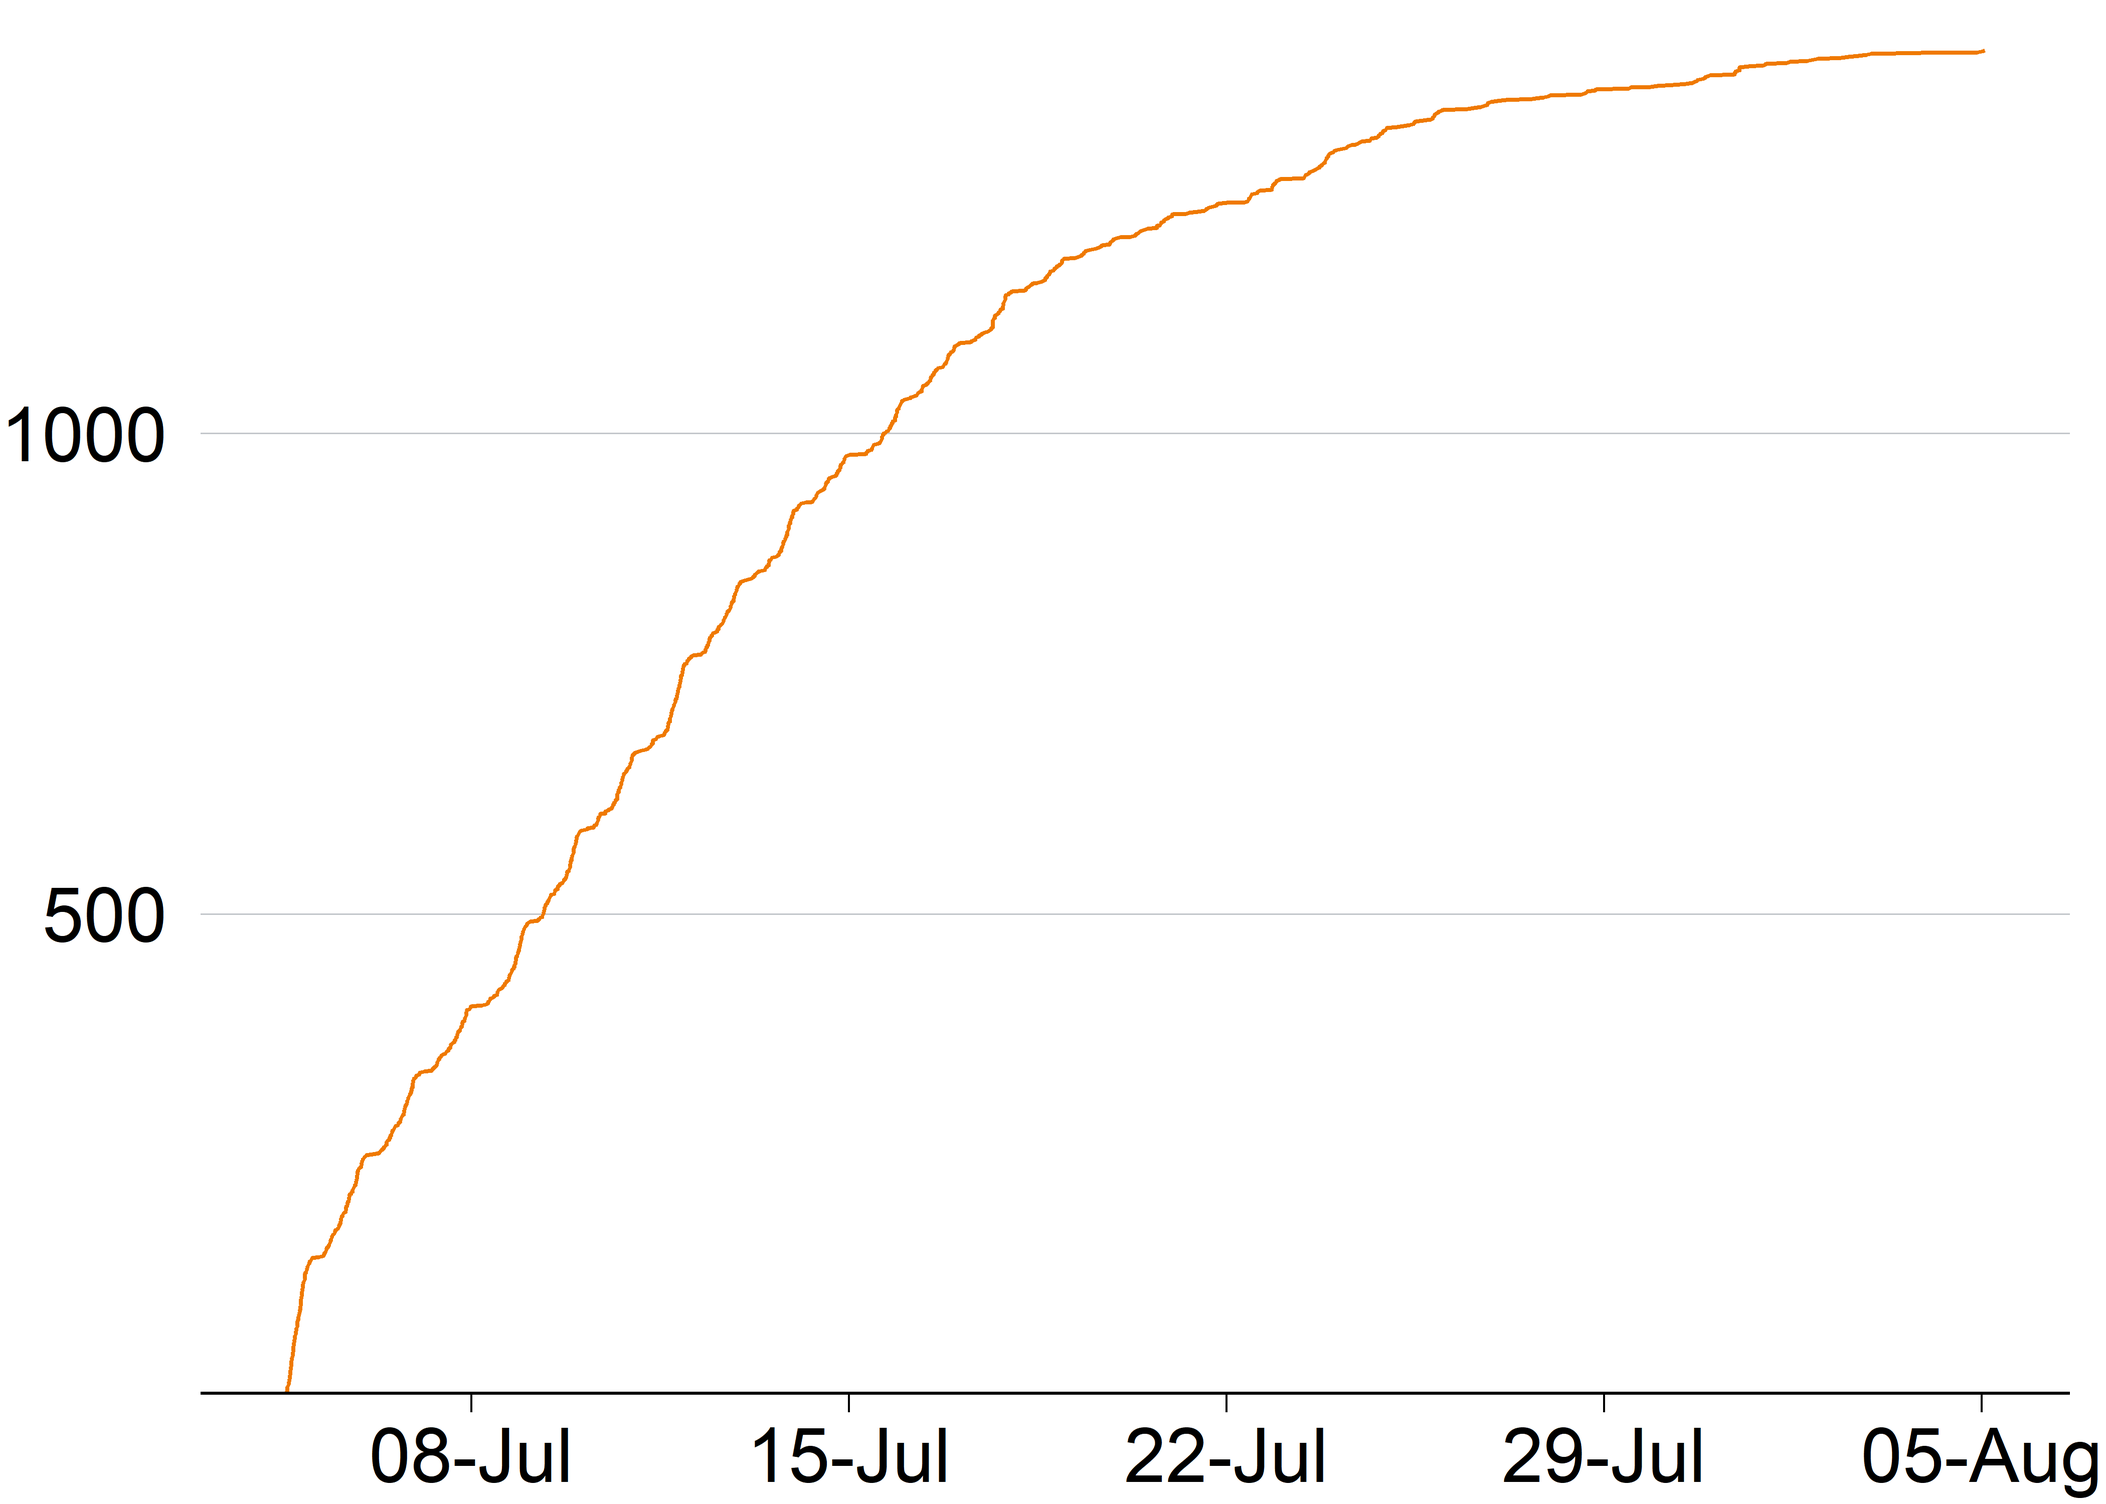
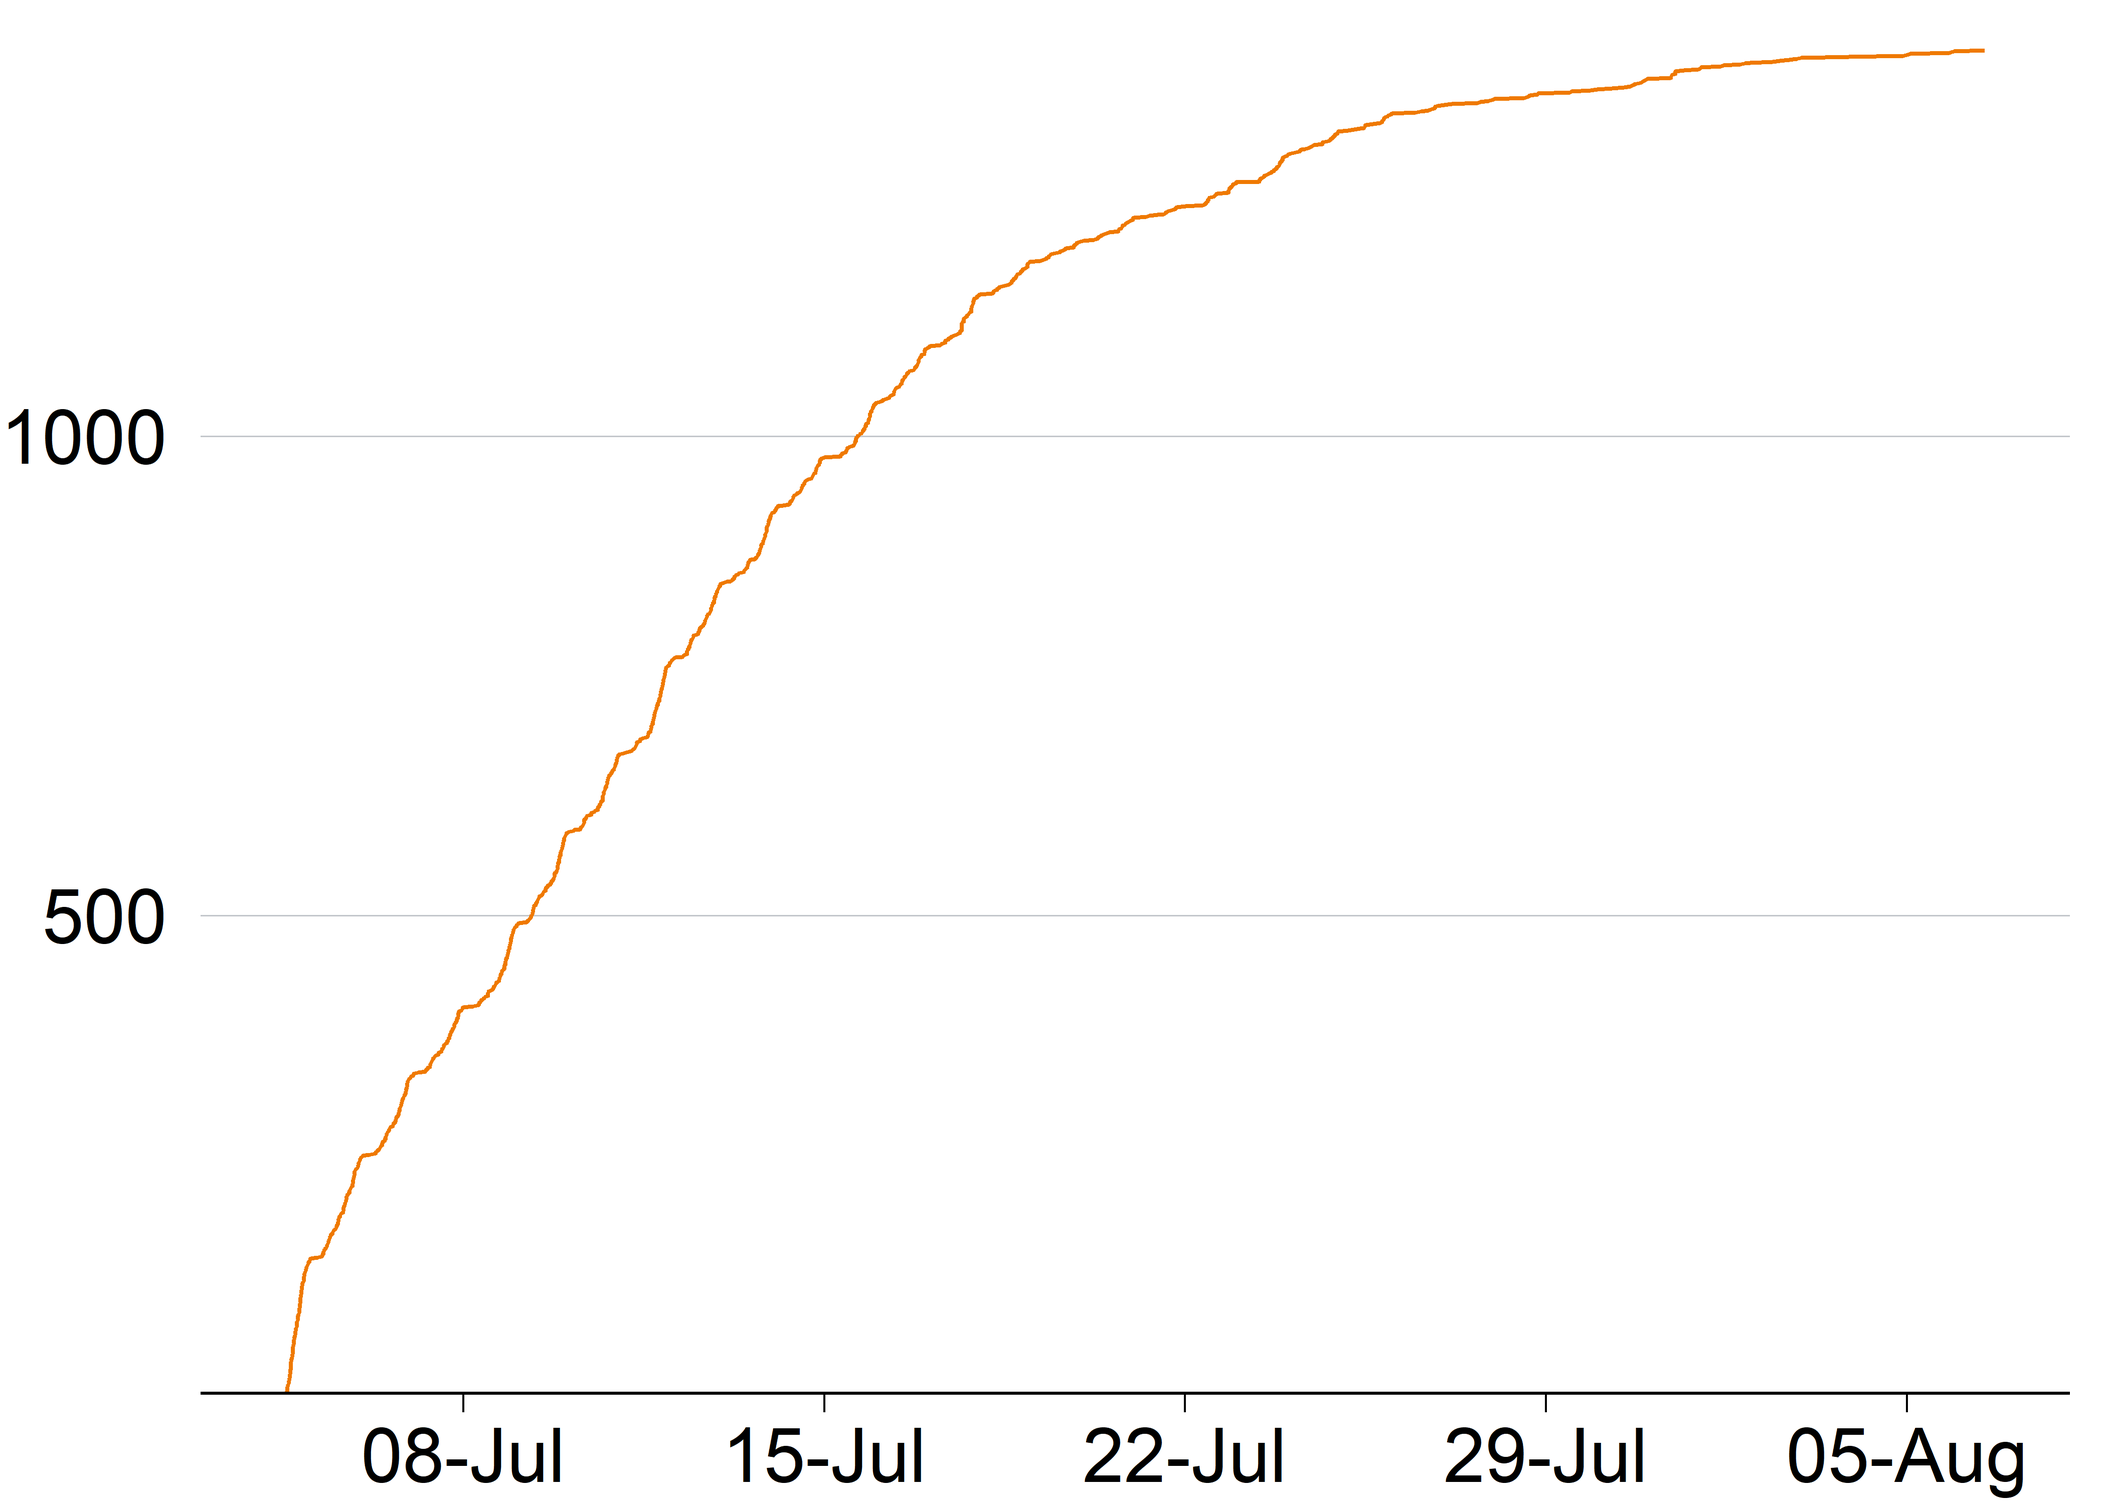
Daily update

diff --git a/docs/index.html b/docs/index.html
@@ -194,7 +194,7 @@ div.csl-indent {
 <li><p>Anyone whose responses are <a href="https://www.qualtrics.com/support/survey-platform/survey-module/survey-checker/fraud-detection/">flagged by Qualtrics as suspicious</a> (i.e.&nbsp;Q_RecaptchaScore is below 0.5). This is typically because of the speed at which they respond, or ‘straight lining’ (i.e.&nbsp;clicking the same radio buttons in a single column).</p></li>
 <li><p>Anyone who did not complete more than one substantive (i.e.&nbsp;non-demographic) question.</p></li>
 </ul>
-<p>Through this process, we lose 327 responses. This leaves us with 1,399 valid responses.</p>
+<p>Through this process, we lose 330 responses. This leaves us with 1,403 valid responses.</p>
 <p>We also check for duplicates, using <a href="https://www.qualtrics.com/support/survey-platform/survey-module/survey-checker/fraud-detection/">Qualtrics duplicate flag</a>. This pulls out respondents who try reattempt the survey from the same IP address. We can see if they are duplicates by looking through their answers manually.</p>
 <p>We now check the number of valid responses over time, in <a href="#fig-responses-over-time">Figure&nbsp;1</a>.</p>
 <div class="cell">
@@ -235,14 +235,14 @@ div.csl-indent {
   <tr grouplength="5"><td colspan="5" style="border-bottom: 1px solid;color: rgba(239, 121, 0, 255) !important;"><strong>Sex</strong></td></tr>
 <tr>
    <td style="text-align:left;padding-left: 2em;" indentlevel="1"> Female </td>
-   <td style="text-align:right;"> 1,145 </td>
+   <td style="text-align:right;"> 1,148 </td>
    <td style="text-align:right;"> 82% </td>
    <td style="text-align:right;"> 129,560 </td>
    <td style="text-align:right;"> 82% </td>
   </tr>
   <tr>
    <td style="text-align:left;padding-left: 2em;" indentlevel="1"> Male </td>
-   <td style="text-align:right;"> 236 </td>
+   <td style="text-align:right;"> 237 </td>
    <td style="text-align:right;"> 17% </td>
    <td style="text-align:right;"> 28,207 </td>
    <td style="text-align:right;"> 18% </td>
@@ -263,7 +263,7 @@ div.csl-indent {
   </tr>
   <tr>
    <td style="text-align:left;padding-left: 2em;" indentlevel="1"> Total </td>
-   <td style="text-align:right;"> 1,399 </td>
+   <td style="text-align:right;"> 1,403 </td>
    <td style="text-align:right;"> 100% </td>
    <td style="text-align:right;"> 157,767 </td>
    <td style="text-align:right;"> 100% </td>
@@ -271,7 +271,7 @@ div.csl-indent {
   <tr grouplength="7"><td colspan="5" style="border-bottom: 1px solid;color: rgba(239, 121, 0, 255) !important;"><strong>Main teaching role</strong></td></tr>
 <tr>
    <td style="text-align:left;padding-left: 2em;" indentlevel="1"> Generalist teacher </td>
-   <td style="text-align:right;"> 753 </td>
+   <td style="text-align:right;"> 755 </td>
    <td style="text-align:right;"> 54% </td>
    <td style="text-align:right;">  </td>
    <td style="text-align:right;">  </td>
@@ -285,7 +285,7 @@ div.csl-indent {
   </tr>
   <tr>
    <td style="text-align:left;padding-left: 2em;" indentlevel="1"> Tutor </td>
-   <td style="text-align:right;"> 106 </td>
+   <td style="text-align:right;"> 107 </td>
    <td style="text-align:right;"> 8% </td>
    <td style="text-align:right;">  </td>
    <td style="text-align:right;">  </td>
@@ -299,7 +299,7 @@ div.csl-indent {
   </tr>
   <tr>
    <td style="text-align:left;padding-left: 2em;" indentlevel="1"> Relief teacher </td>
-   <td style="text-align:right;"> 81 </td>
+   <td style="text-align:right;"> 82 </td>
    <td style="text-align:right;"> 6% </td>
    <td style="text-align:right;">  </td>
    <td style="text-align:right;">  </td>
@@ -313,7 +313,7 @@ div.csl-indent {
   </tr>
   <tr>
    <td style="text-align:left;padding-left: 2em;" indentlevel="1"> Total </td>
-   <td style="text-align:right;"> 1,399 </td>
+   <td style="text-align:right;"> 1,403 </td>
    <td style="text-align:right;"> 100% </td>
    <td style="text-align:right;">  </td>
    <td style="text-align:right;">  </td>
@@ -335,21 +335,21 @@ div.csl-indent {
   </tr>
   <tr>
    <td style="text-align:left;padding-left: 2em;" indentlevel="1"> Instructional leader </td>
-   <td style="text-align:right;"> 333 </td>
+   <td style="text-align:right;"> 334 </td>
    <td style="text-align:right;"> 22% </td>
    <td style="text-align:right;">  </td>
    <td style="text-align:right;">  </td>
   </tr>
   <tr>
    <td style="text-align:left;padding-left: 2em;" indentlevel="1"> Team leader </td>
-   <td style="text-align:right;"> 158 </td>
+   <td style="text-align:right;"> 160 </td>
    <td style="text-align:right;"> 11% </td>
    <td style="text-align:right;">  </td>
    <td style="text-align:right;">  </td>
   </tr>
   <tr>
    <td style="text-align:left;padding-left: 2em;" indentlevel="1"> Pastoral or wellbeing leader </td>
-   <td style="text-align:right;"> 41 </td>
+   <td style="text-align:right;"> 42 </td>
    <td style="text-align:right;"> 3% </td>
    <td style="text-align:right;">  </td>
    <td style="text-align:right;">  </td>
@@ -363,14 +363,14 @@ div.csl-indent {
   </tr>
   <tr>
    <td style="text-align:left;padding-left: 2em;" indentlevel="1"> No leadership role </td>
-   <td style="text-align:right;"> 439 </td>
+   <td style="text-align:right;"> 441 </td>
    <td style="text-align:right;"> 29% </td>
    <td style="text-align:right;">  </td>
    <td style="text-align:right;">  </td>
   </tr>
   <tr>
    <td style="text-align:left;padding-left: 2em;" indentlevel="1"> Total </td>
-   <td style="text-align:right;"> 1,490 </td>
+   <td style="text-align:right;"> 1,496 </td>
    <td style="text-align:right;"> 100% </td>
    <td style="text-align:right;">  </td>
    <td style="text-align:right;">  </td>
@@ -378,7 +378,7 @@ div.csl-indent {
   <tr grouplength="5"><td colspan="5" style="border-bottom: 1px solid;color: rgba(239, 121, 0, 255) !important;"><strong>Years of teaching experience</strong></td></tr>
 <tr>
    <td style="text-align:left;padding-left: 2em;" indentlevel="1"> &lt;5 years </td>
-   <td style="text-align:right;"> 83 </td>
+   <td style="text-align:right;"> 84 </td>
    <td style="text-align:right;"> 6% </td>
    <td style="text-align:right;"> 8,173 </td>
    <td style="text-align:right;"> 18% </td>
@@ -392,21 +392,21 @@ div.csl-indent {
   </tr>
   <tr>
    <td style="text-align:left;padding-left: 2em;" indentlevel="1"> 10-20 years </td>
-   <td style="text-align:right;"> 396 </td>
+   <td style="text-align:right;"> 398 </td>
    <td style="text-align:right;"> 28% </td>
    <td style="text-align:right;"> 12,480 </td>
    <td style="text-align:right;"> 28% </td>
   </tr>
   <tr>
    <td style="text-align:left;padding-left: 2em;" indentlevel="1"> 20+ years </td>
-   <td style="text-align:right;"> 766 </td>
+   <td style="text-align:right;"> 767 </td>
    <td style="text-align:right;"> 55% </td>
    <td style="text-align:right;"> 17,584 </td>
    <td style="text-align:right;"> 39% </td>
   </tr>
   <tr>
    <td style="text-align:left;padding-left: 2em;" indentlevel="1"> Total </td>
-   <td style="text-align:right;"> 1,399 </td>
+   <td style="text-align:right;"> 1,403 </td>
    <td style="text-align:right;"> 100% </td>
    <td style="text-align:right;"> 44,698 </td>
    <td style="text-align:right;"> 100% </td>
@@ -419,7 +419,7 @@ div.csl-indent {
 </tfoot>
 <tfoot>
 <tr>
-<td style="padding: 0; border:0;" colspan="100%"><sup>*</sup> Options add up to more than 1399 because respondents could select multiple leadership responsibilities.</td>
+<td style="padding: 0; border:0;" colspan="100%"><sup>*</sup> Options add up to more than 1403 because respondents could select multiple leadership responsibilities.</td>
 </tr>
 </tfoot>
 </table>
@@ -465,7 +465,7 @@ Population data
 </tr>
 <tr class="even">
 <td style="text-align: left; padding-left: 2em;" data-indentlevel="1">Primary</td>
-<td style="text-align: right;">1,147</td>
+<td style="text-align: right;">1,151</td>
 <td style="text-align: right;">82%</td>
 <td style="text-align: right;">138,613</td>
 <td style="text-align: right;">88%</td>
@@ -486,7 +486,7 @@ Population data
 </tr>
 <tr class="odd">
 <td style="text-align: left; padding-left: 2em;" data-indentlevel="1">Total</td>
-<td style="text-align: right;">1,399</td>
+<td style="text-align: right;">1,403</td>
 <td style="text-align: right;">100%</td>
 <td style="text-align: right;">157,767</td>
 <td style="text-align: right;">100%</td>
@@ -496,14 +496,14 @@ Population data
 </tr>
 <tr class="odd">
 <td style="text-align: left; padding-left: 2em;" data-indentlevel="1">Catholic</td>
-<td style="text-align: right;">356</td>
-<td style="text-align: right;">25%</td>
+<td style="text-align: right;">359</td>
+<td style="text-align: right;">26%</td>
 <td style="text-align: right;">27,307</td>
 <td style="text-align: right;">17%</td>
 </tr>
 <tr class="even">
 <td style="text-align: left; padding-left: 2em;" data-indentlevel="1">Government</td>
-<td style="text-align: right;">871</td>
+<td style="text-align: right;">872</td>
 <td style="text-align: right;">62%</td>
 <td style="text-align: right;">109,372</td>
 <td style="text-align: right;">69%</td>
@@ -517,7 +517,7 @@ Population data
 </tr>
 <tr class="even">
 <td style="text-align: left; padding-left: 2em;" data-indentlevel="1">Total</td>
-<td style="text-align: right;">1,399</td>
+<td style="text-align: right;">1,403</td>
 <td style="text-align: right;">100%</td>
 <td style="text-align: right;">157,767</td>
 <td style="text-align: right;">100%</td>
@@ -534,7 +534,7 @@ Population data
 </tr>
 <tr class="odd">
 <td style="text-align: left; padding-left: 2em;" data-indentlevel="1">New South Wales</td>
-<td style="text-align: right;">283</td>
+<td style="text-align: right;">284</td>
 <td style="text-align: right;">20%</td>
 <td style="text-align: right;">46,753</td>
 <td style="text-align: right;">30%</td>
@@ -548,7 +548,7 @@ Population data
 </tr>
 <tr class="odd">
 <td style="text-align: left; padding-left: 2em;" data-indentlevel="1">Queensland</td>
-<td style="text-align: right;">179</td>
+<td style="text-align: right;">180</td>
 <td style="text-align: right;">13%</td>
 <td style="text-align: right;">32,598</td>
 <td style="text-align: right;">21%</td>
@@ -562,14 +562,14 @@ Population data
 </tr>
 <tr class="odd">
 <td style="text-align: left; padding-left: 2em;" data-indentlevel="1">Tasmania</td>
-<td style="text-align: right;">58</td>
+<td style="text-align: right;">59</td>
 <td style="text-align: right;">4%</td>
 <td style="text-align: right;">3,282</td>
 <td style="text-align: right;">2%</td>
 </tr>
 <tr class="even">
 <td style="text-align: left; padding-left: 2em;" data-indentlevel="1">Victoria</td>
-<td style="text-align: right;">615</td>
+<td style="text-align: right;">616</td>
 <td style="text-align: right;">44%</td>
 <td style="text-align: right;">43,059</td>
 <td style="text-align: right;">27%</td>
@@ -583,7 +583,7 @@ Population data
 </tr>
 <tr class="even">
 <td style="text-align: left; padding-left: 2em;" data-indentlevel="1">Total</td>
-<td style="text-align: right;">1,399</td>
+<td style="text-align: right;">1,403</td>
 <td style="text-align: right;">100%</td>
 <td style="text-align: right;">157,767</td>
 <td style="text-align: right;">100%</td>
@@ -593,14 +593,14 @@ Population data
 </tr>
 <tr class="even">
 <td style="text-align: left; padding-left: 2em;" data-indentlevel="1">A fairly even mix of advantaged and disadvantaged students</td>
-<td style="text-align: right;">596</td>
+<td style="text-align: right;">599</td>
 <td style="text-align: right;">43%</td>
 <td style="text-align: right;">108,716</td>
 <td style="text-align: right;">31%</td>
 </tr>
 <tr class="odd">
 <td style="text-align: left; padding-left: 2em;" data-indentlevel="1">Mostly advantaged</td>
-<td style="text-align: right;">494</td>
+<td style="text-align: right;">495</td>
 <td style="text-align: right;">35%</td>
 <td style="text-align: right;">155,345</td>
 <td style="text-align: right;">45%</td>
@@ -614,7 +614,7 @@ Population data
 </tr>
 <tr class="odd">
 <td style="text-align: left; padding-left: 2em;" data-indentlevel="1">Total</td>
-<td style="text-align: right;">1,399</td>
+<td style="text-align: right;">1,403</td>
 <td style="text-align: right;">100%</td>
 <td style="text-align: right;">346,057</td>
 <td style="text-align: right;">100%</td>
@@ -624,21 +624,21 @@ Population data
 </tr>
 <tr class="odd">
 <td style="text-align: left; padding-left: 2em;" data-indentlevel="1">Metropolitan</td>
-<td style="text-align: right;">826</td>
+<td style="text-align: right;">827</td>
 <td style="text-align: right;">59%</td>
 <td style="text-align: right;">247,899</td>
 <td style="text-align: right;">71%</td>
 </tr>
 <tr class="even">
 <td style="text-align: left; padding-left: 2em;" data-indentlevel="1">Regional</td>
-<td style="text-align: right;">396</td>
+<td style="text-align: right;">398</td>
 <td style="text-align: right;">28%</td>
 <td style="text-align: right;">62,251</td>
 <td style="text-align: right;">18%</td>
 </tr>
 <tr class="odd">
 <td style="text-align: left; padding-left: 2em;" data-indentlevel="1">Rural</td>
-<td style="text-align: right;">147</td>
+<td style="text-align: right;">148</td>
 <td style="text-align: right;">11%</td>
 <td style="text-align: right;">29,475</td>
 <td style="text-align: right;">8%</td>
@@ -652,7 +652,7 @@ Population data
 </tr>
 <tr class="odd">
 <td style="text-align: left; padding-left: 2em;" data-indentlevel="1">Total</td>
-<td style="text-align: right;">1,399</td>
+<td style="text-align: right;">1,403</td>
 <td style="text-align: right;">100%</td>
 <td style="text-align: right;">347,411</td>
 <td style="text-align: right;">100%</td>
@@ -676,14 +676,14 @@ Population data
 </tr>
 <tr class="odd">
 <td style="text-align: left; padding-left: 2em;" data-indentlevel="1">101 to 200 students</td>
-<td style="text-align: right;">181</td>
+<td style="text-align: right;">182</td>
 <td style="text-align: right;">13%</td>
 <td style="text-align: right;">13,869</td>
 <td style="text-align: right;">10%</td>
 </tr>
 <tr class="even">
 <td style="text-align: left; padding-left: 2em;" data-indentlevel="1">201 to 300 students</td>
-<td style="text-align: right;">208</td>
+<td style="text-align: right;">209</td>
 <td style="text-align: right;">15%</td>
 <td style="text-align: right;">18,855</td>
 <td style="text-align: right;">14%</td>
@@ -697,7 +697,7 @@ Population data
 </tr>
 <tr class="even">
 <td style="text-align: left; padding-left: 2em;" data-indentlevel="1">401 to 500 students</td>
-<td style="text-align: right;">209</td>
+<td style="text-align: right;">210</td>
 <td style="text-align: right;">15%</td>
 <td style="text-align: right;">21,307</td>
 <td style="text-align: right;">15%</td>
@@ -739,14 +739,14 @@ Population data
 </tr>
 <tr class="even">
 <td style="text-align: left; padding-left: 2em;" data-indentlevel="1">More than 1,000 students</td>
-<td style="text-align: right;">38</td>
+<td style="text-align: right;">39</td>
 <td style="text-align: right;">3%</td>
 <td style="text-align: right;">5,852</td>
 <td style="text-align: right;">4%</td>
 </tr>
 <tr class="odd">
 <td style="text-align: left; padding-left: 2em;" data-indentlevel="1">Total</td>
-<td style="text-align: right;">1,381</td>
+<td style="text-align: right;">1,385</td>
 <td style="text-align: right;">100%</td>
 <td style="text-align: right;">138,566</td>
 <td style="text-align: right;">100%</td>
